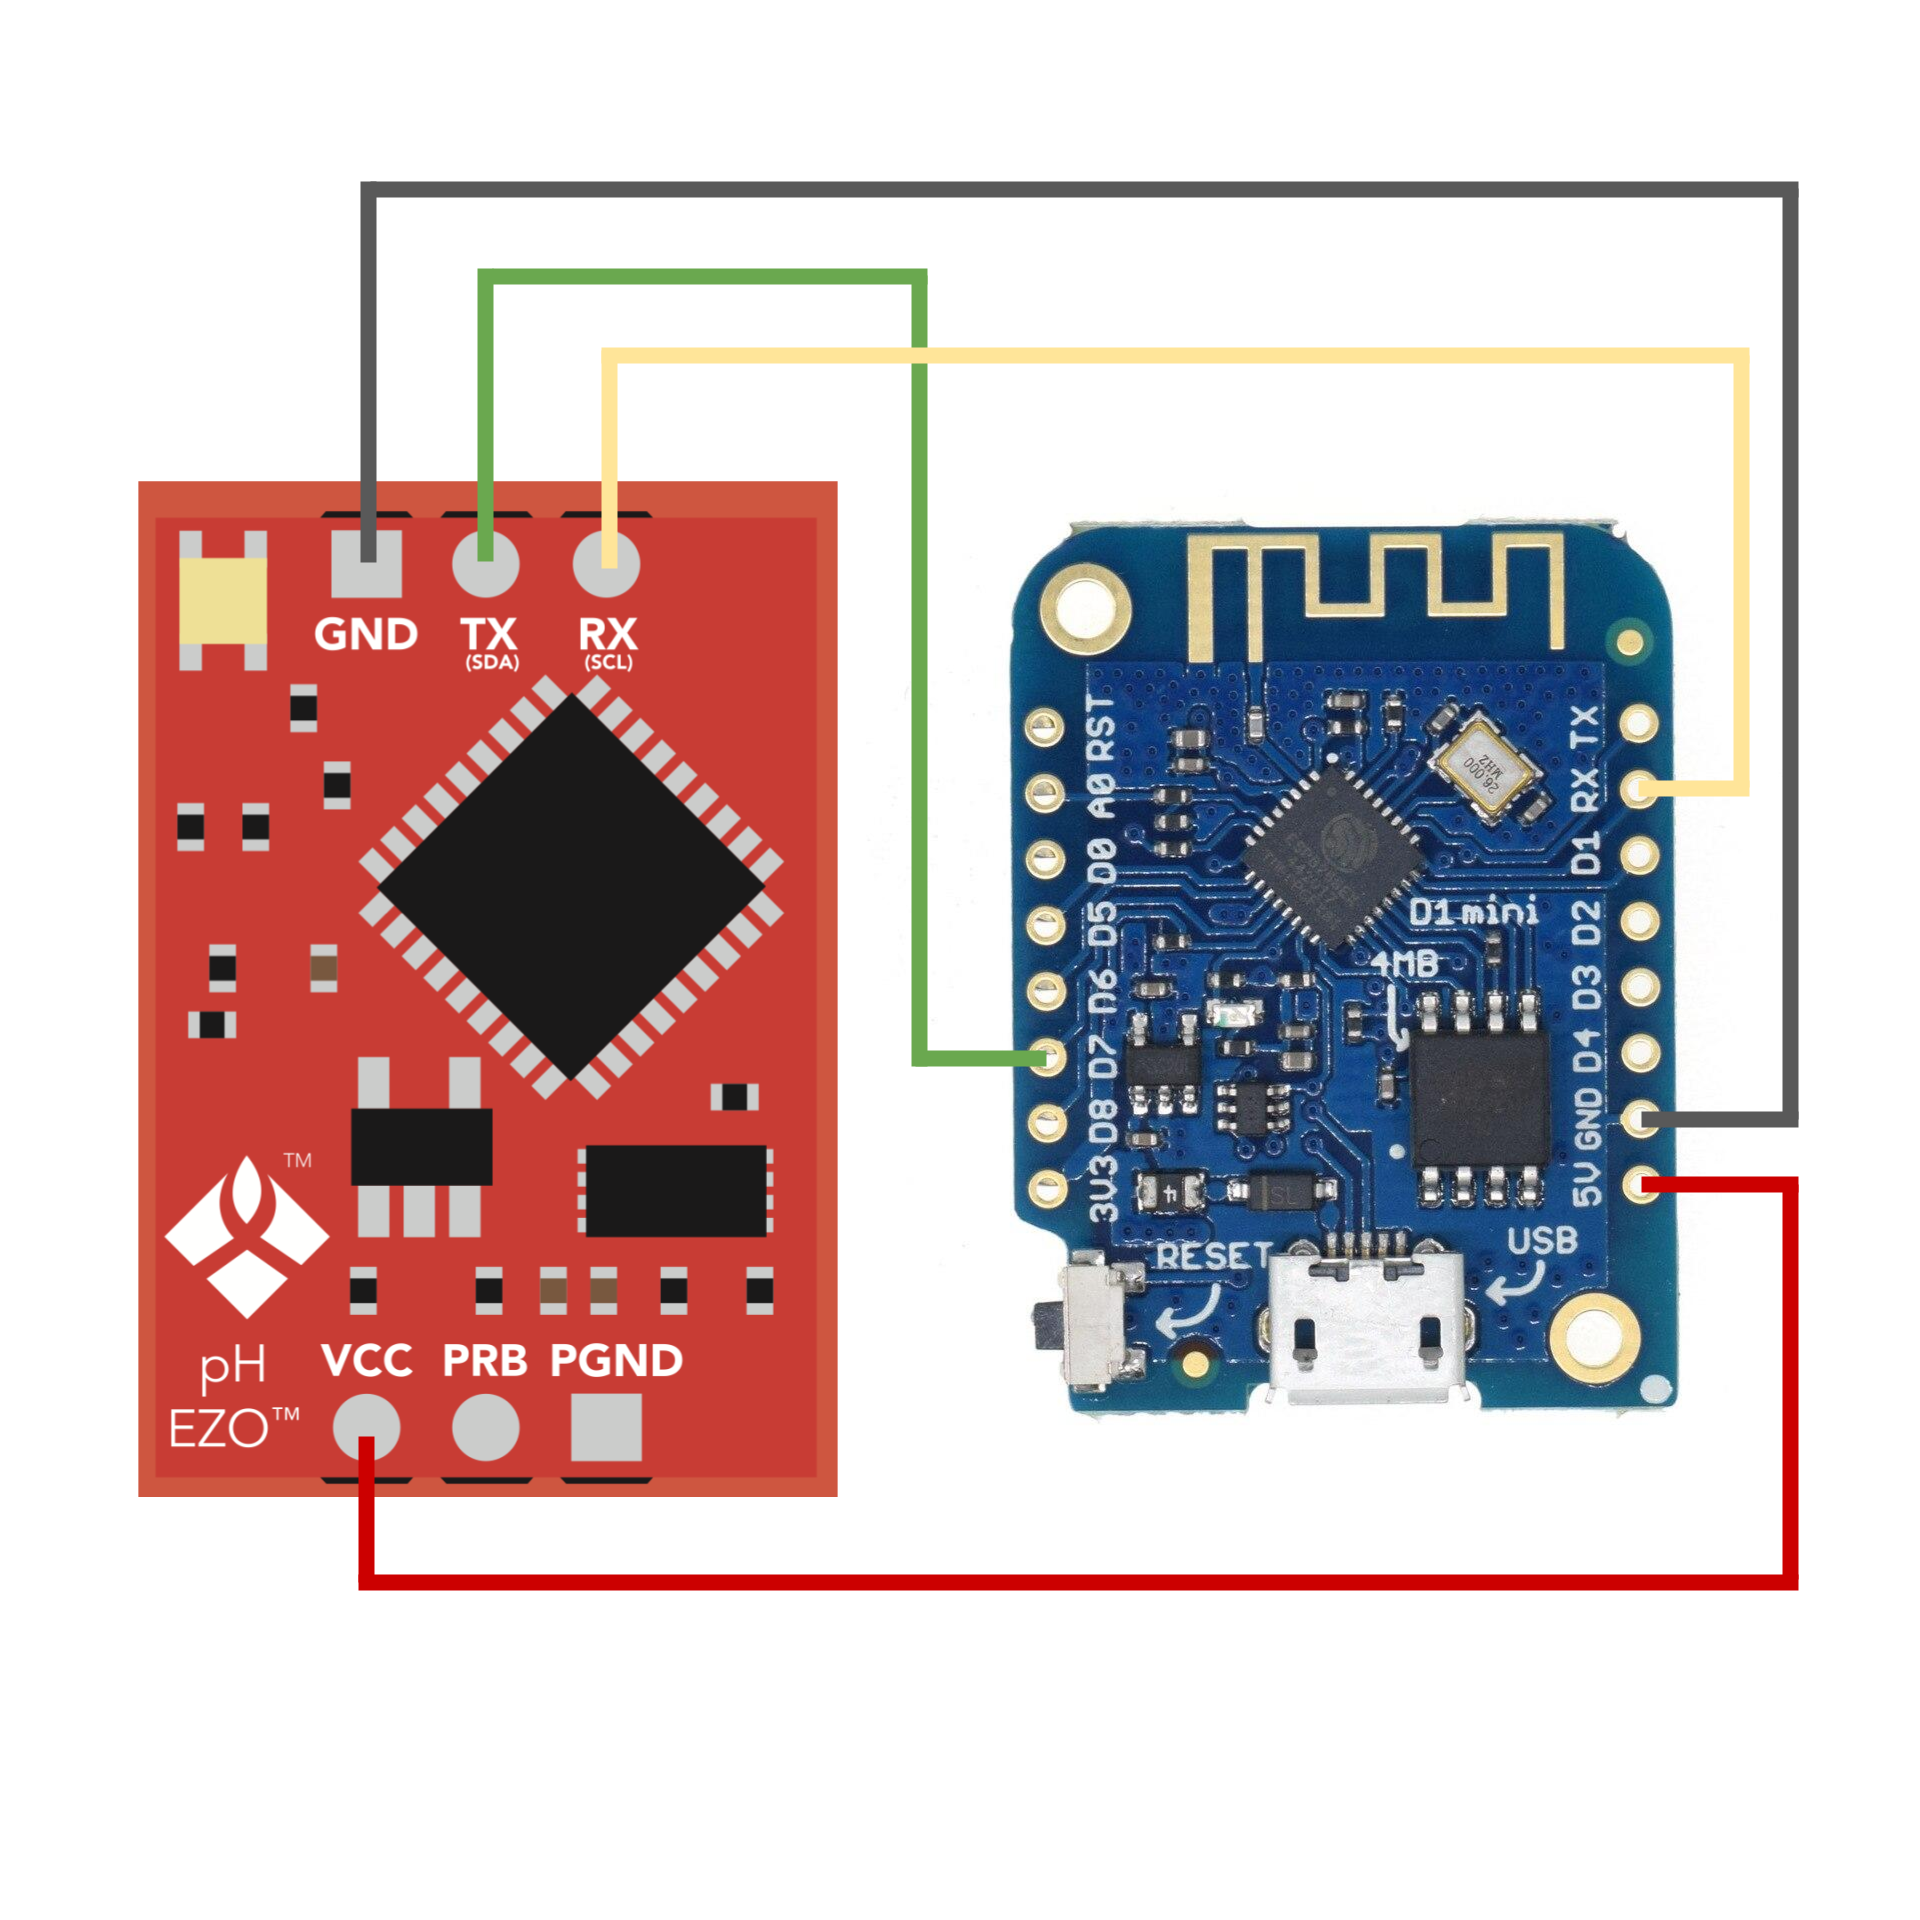
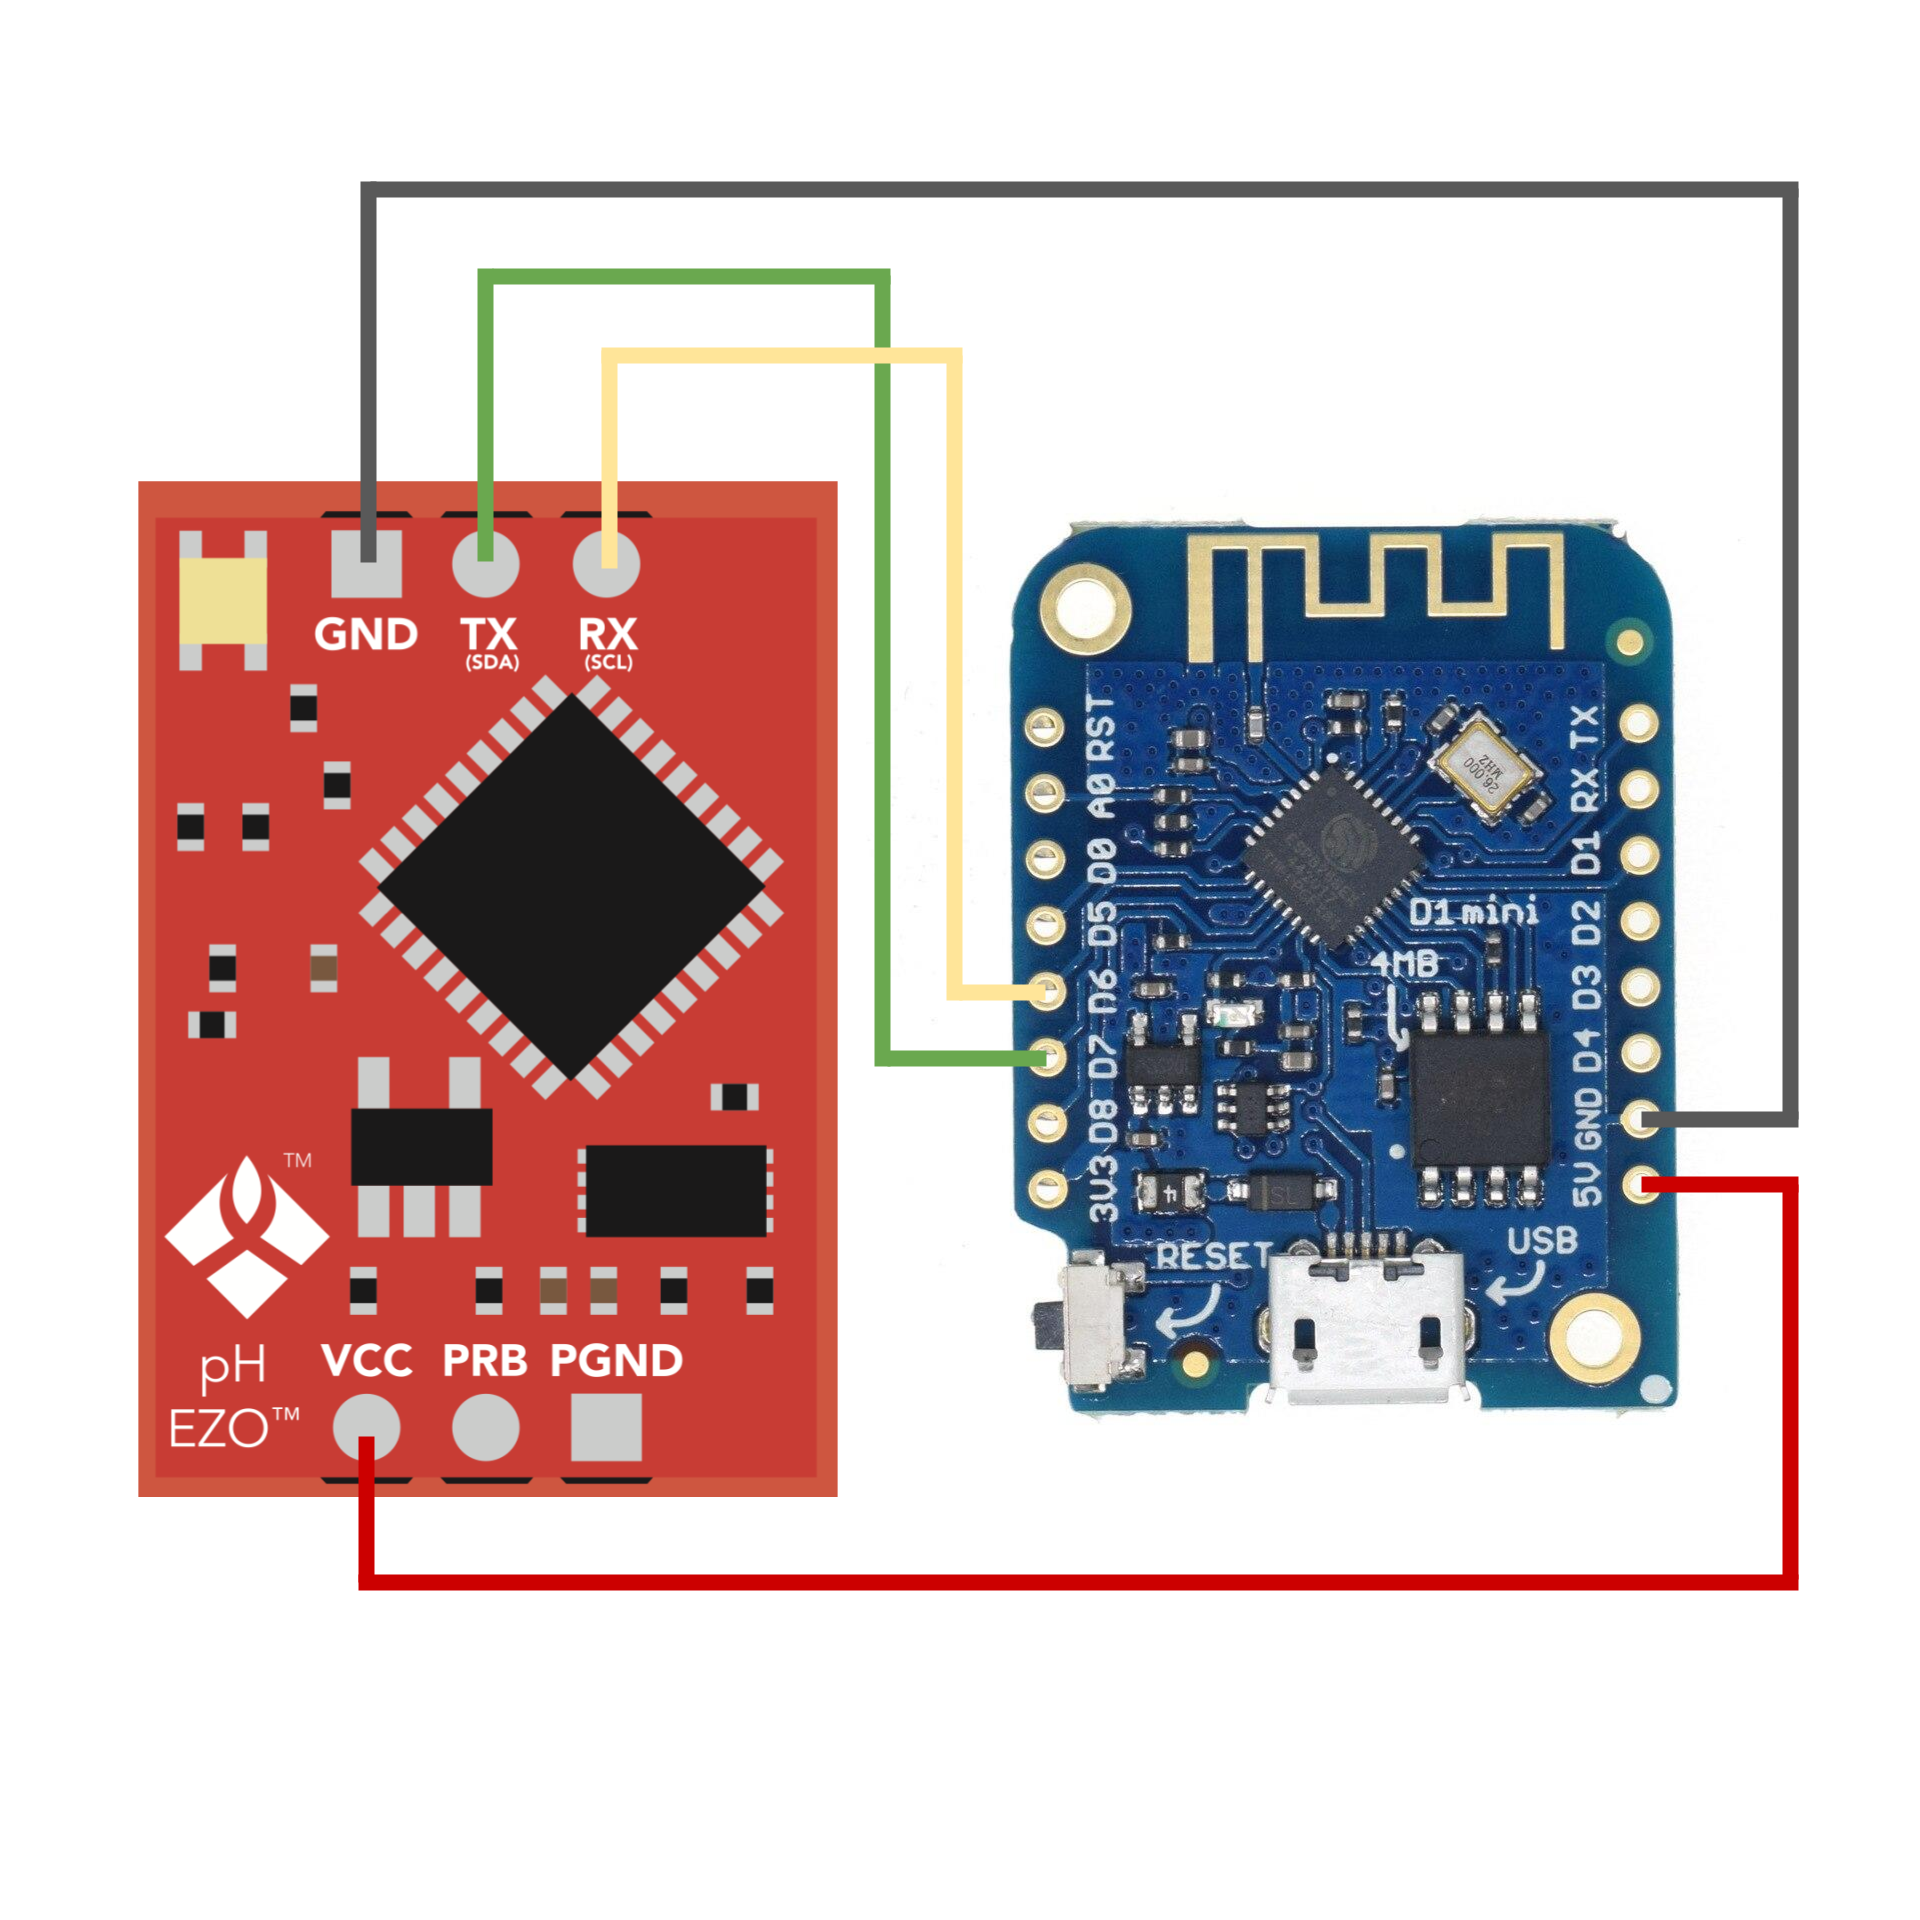
Use EspSoftwareSerial instad of Arduino SoftwareSerial

Changed region(s): [[0.4375, 0.125, 0.9375, 0.5625]]

diff --git a/README.md b/README.md
@@ -10,7 +10,7 @@ The following instructions are based on the EZO™ PH circuit connected to a [LO
 
 1. Connect VCC on the EZO circuit to the 5V pin on the Wemos and the GND pin on the EZO circuit to the GND pin on the Wemos.
 
-2. Connect RX on the EZO circuit to the RX pin on the Wemos (hardware RX).
+2. Connect RX on the EZO circuit to the D6 pin on the Wemos (GPIO 12).
 
 3. Connect TX on the EZO circuit to the D7 on the Wemos (GPIO 13).
 
@@ -25,10 +25,12 @@ The following instructions are based on the EZO™ PH circuit connected to a [LO
 6. Enter serial monitor:
 
     ```
-    pio device monitor --eol CR
+    pio device monitor --baud=9600
     ```
 
     Then select the appropriate device from the list.
+
+    **Note**: the sketch is expecting to see `\n` to detect end of line to issue the command. This works great on macOS. If you're having problems, try manually setting the flag `--eol CR`.
 
 By default, the EZO pH circuit is in continuous read mode and reports one reading per second.
 
